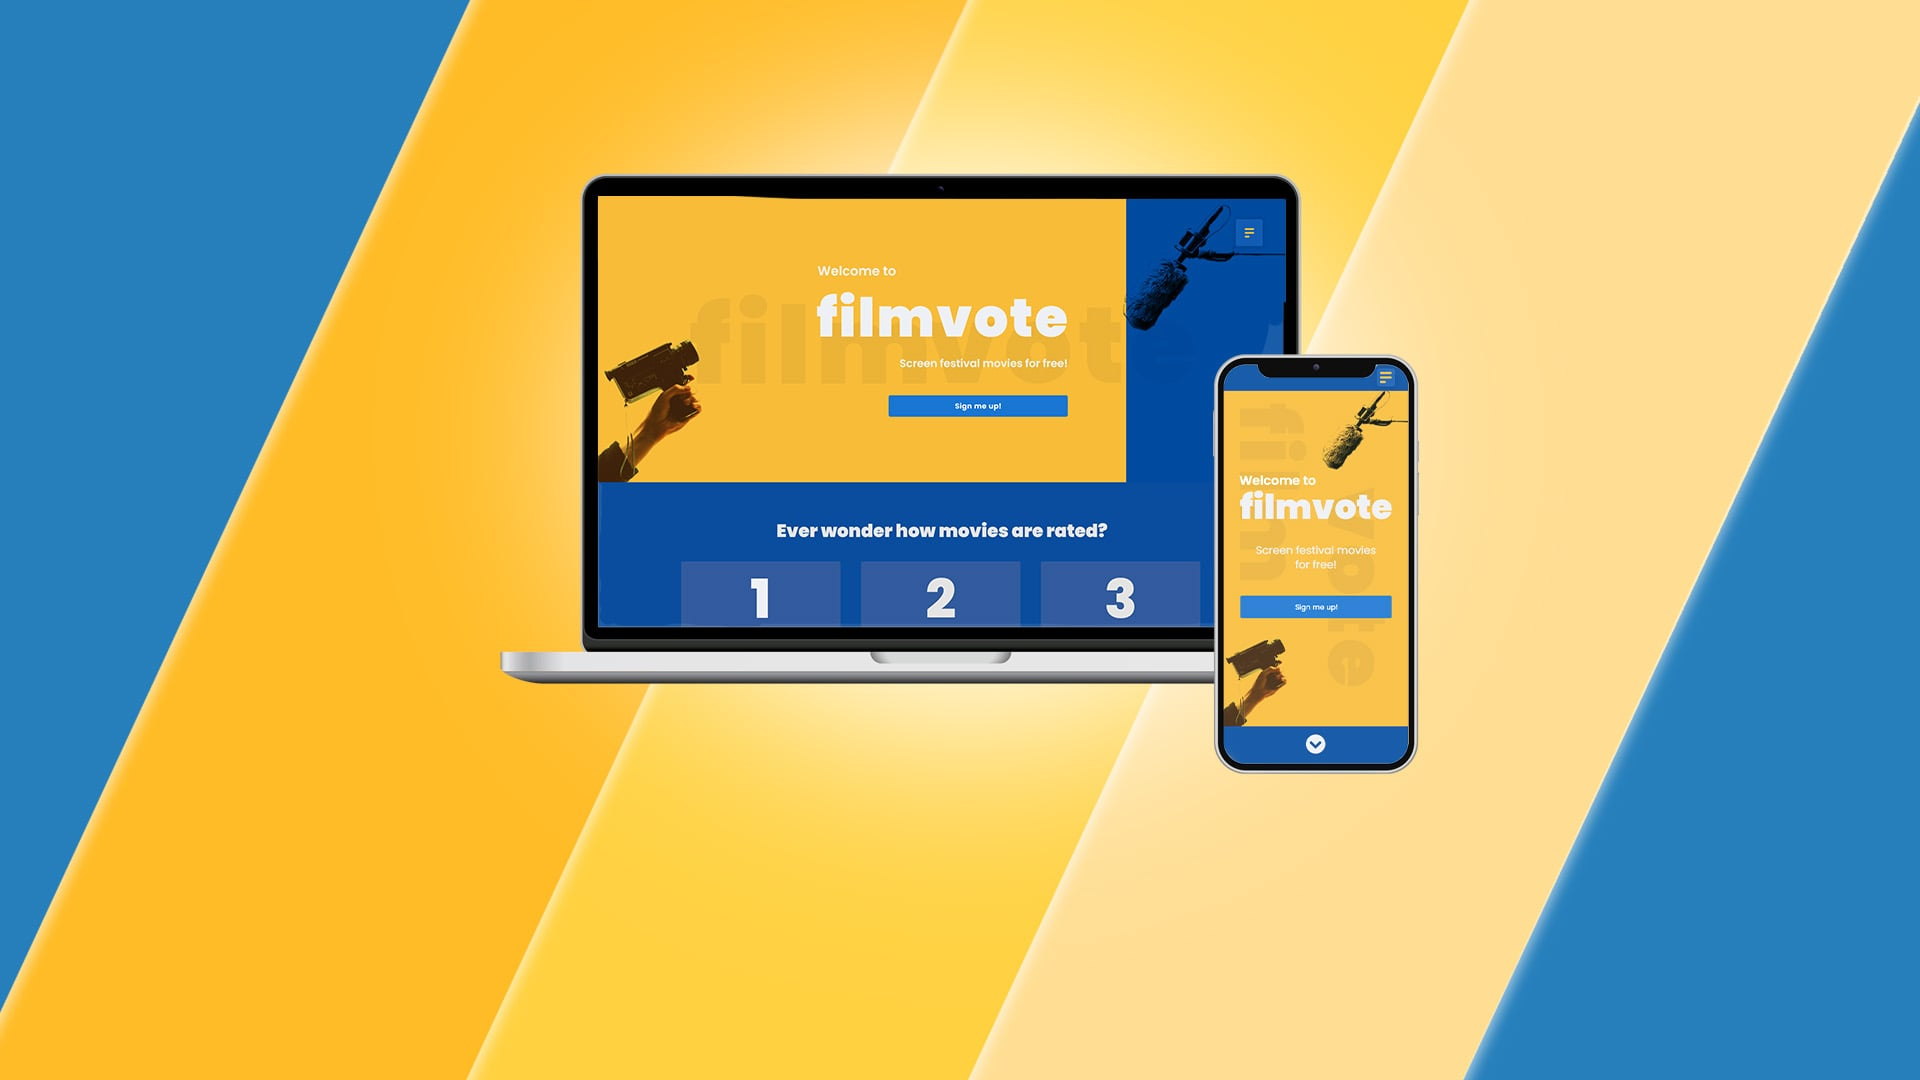
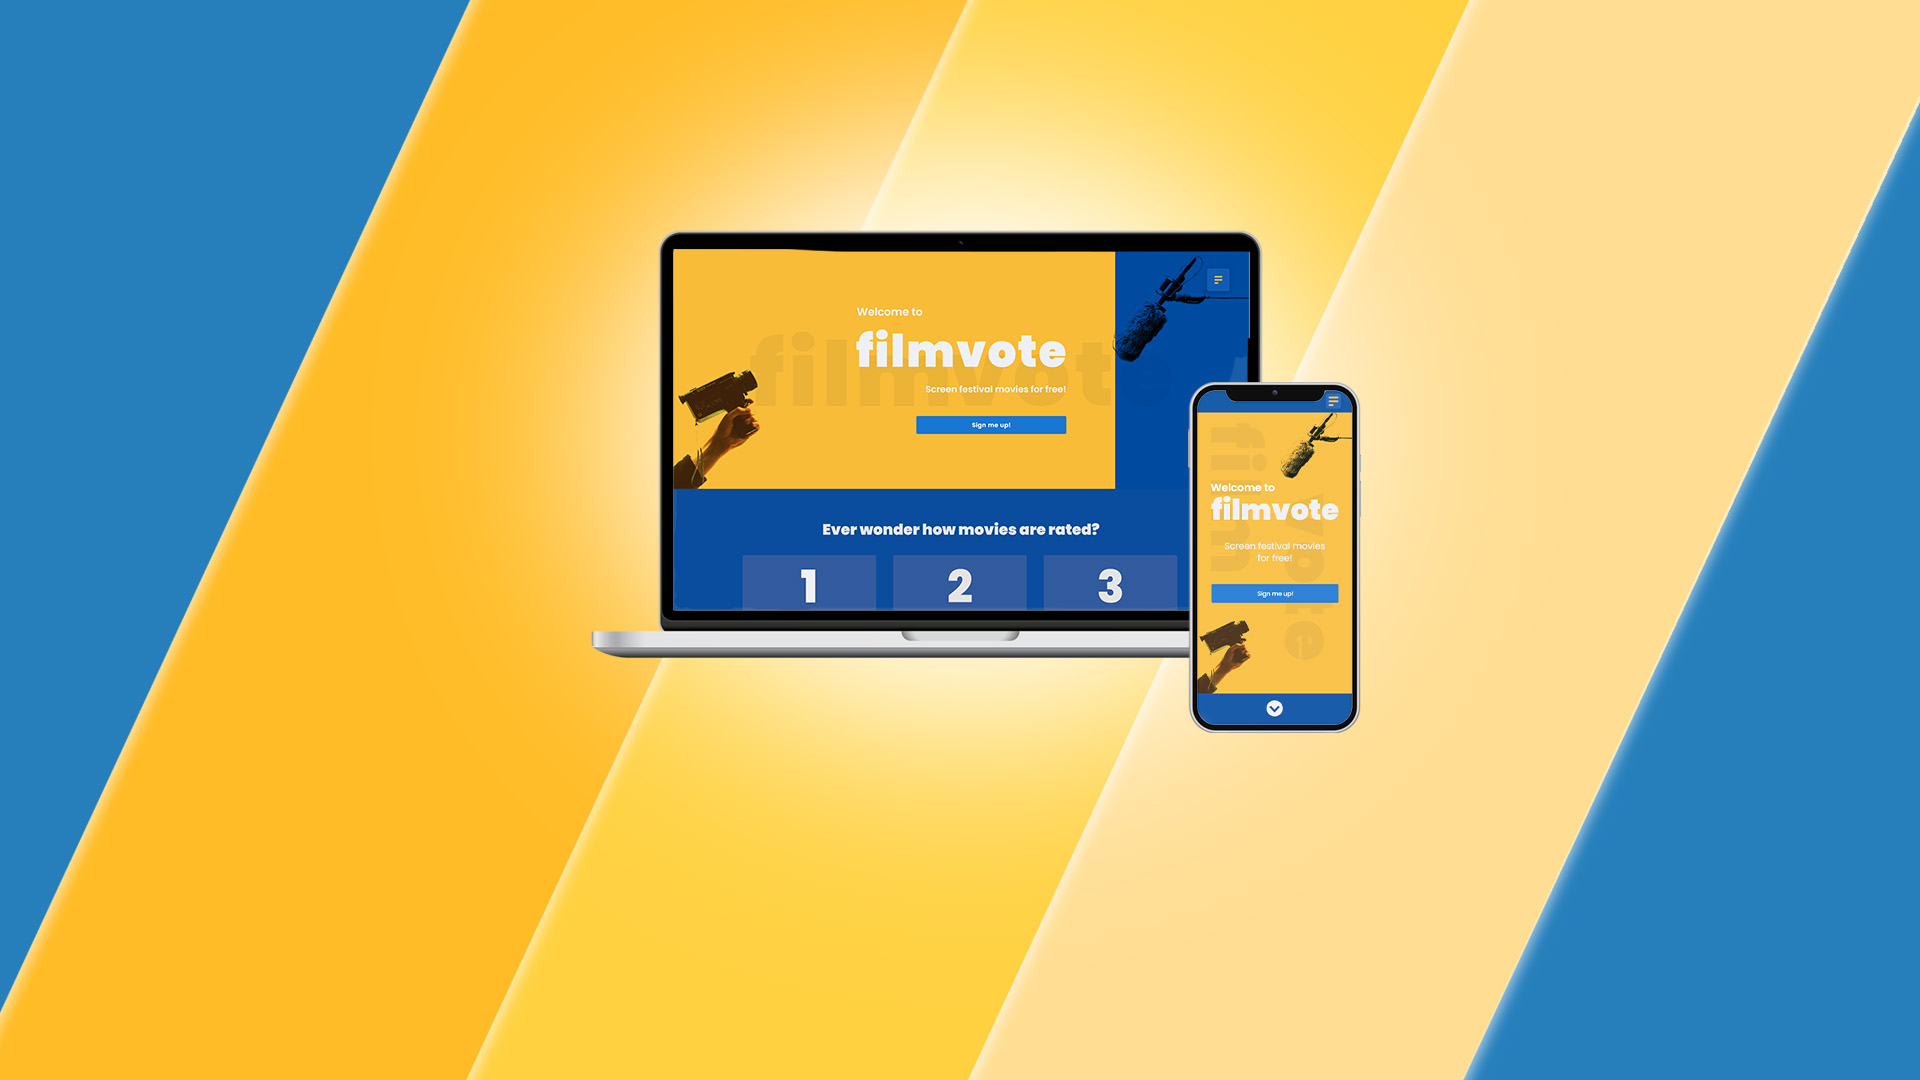
fixing hero size images

Changed region(s): [[0.25, 0.1528, 0.75, 0.7333]]

diff --git a/css/main.css b/css/main.css
@@ -11051,12 +11051,18 @@ body#about #rounded {
   .blur-background {
     background-position: 50% 0;
   }
+  #fourcd .blur-background {
+    background-position: 35% 0;
+  }
 }
 @media only screen and (min-width: 501px) and (max-width: 768px) {
   .main-content {
     padding-top: 70vh;
     /* value based on hero image height */
     z-index: 0;
+  }
+  #filmvote .blur-background {
+    background-position: 52% 0;
   }
 }
 @media only screen and (min-width: 769px) and (max-width: 1024px) {
